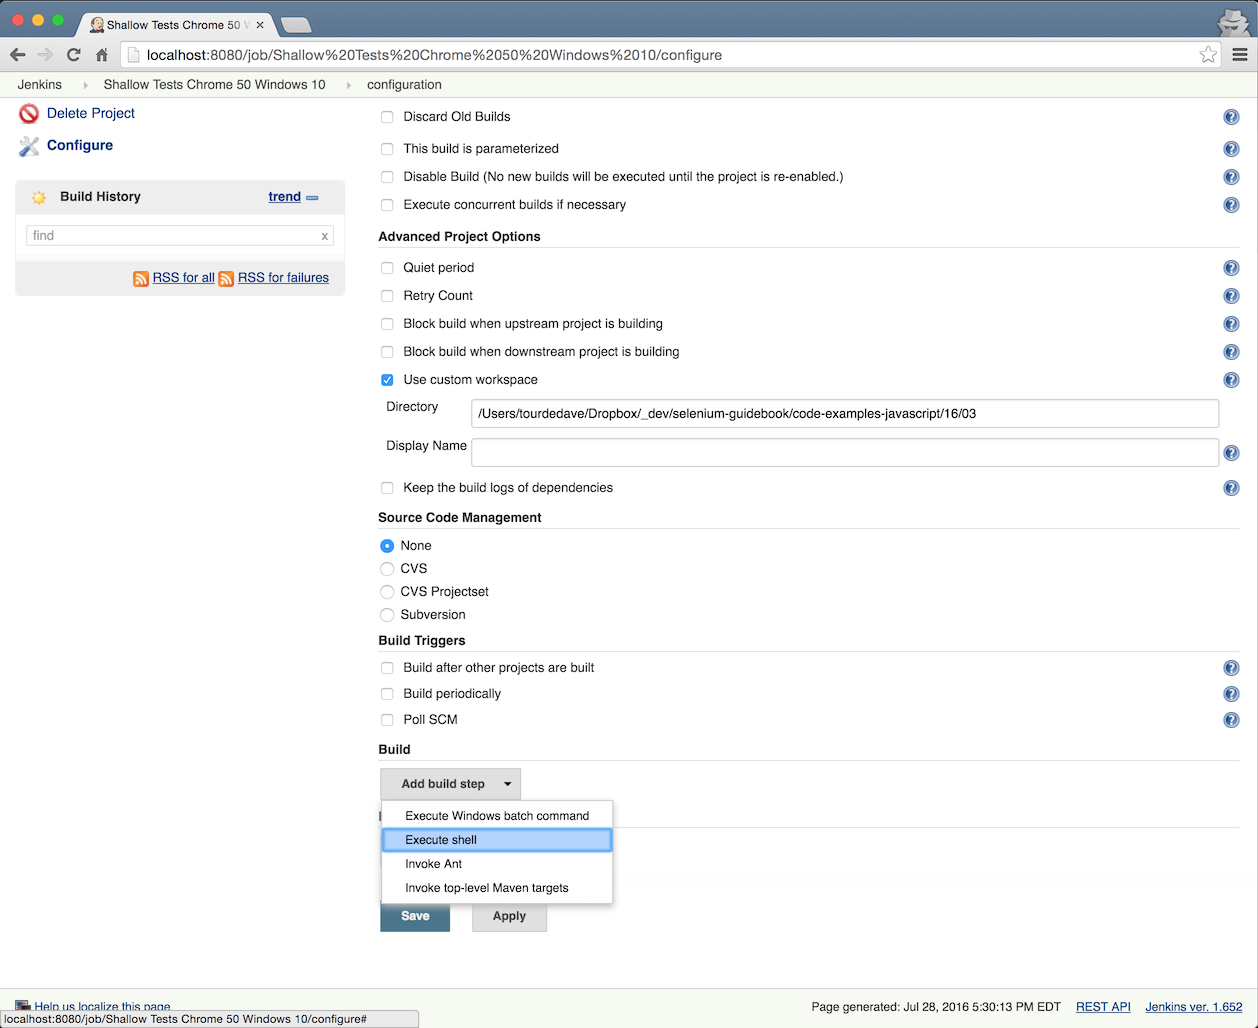
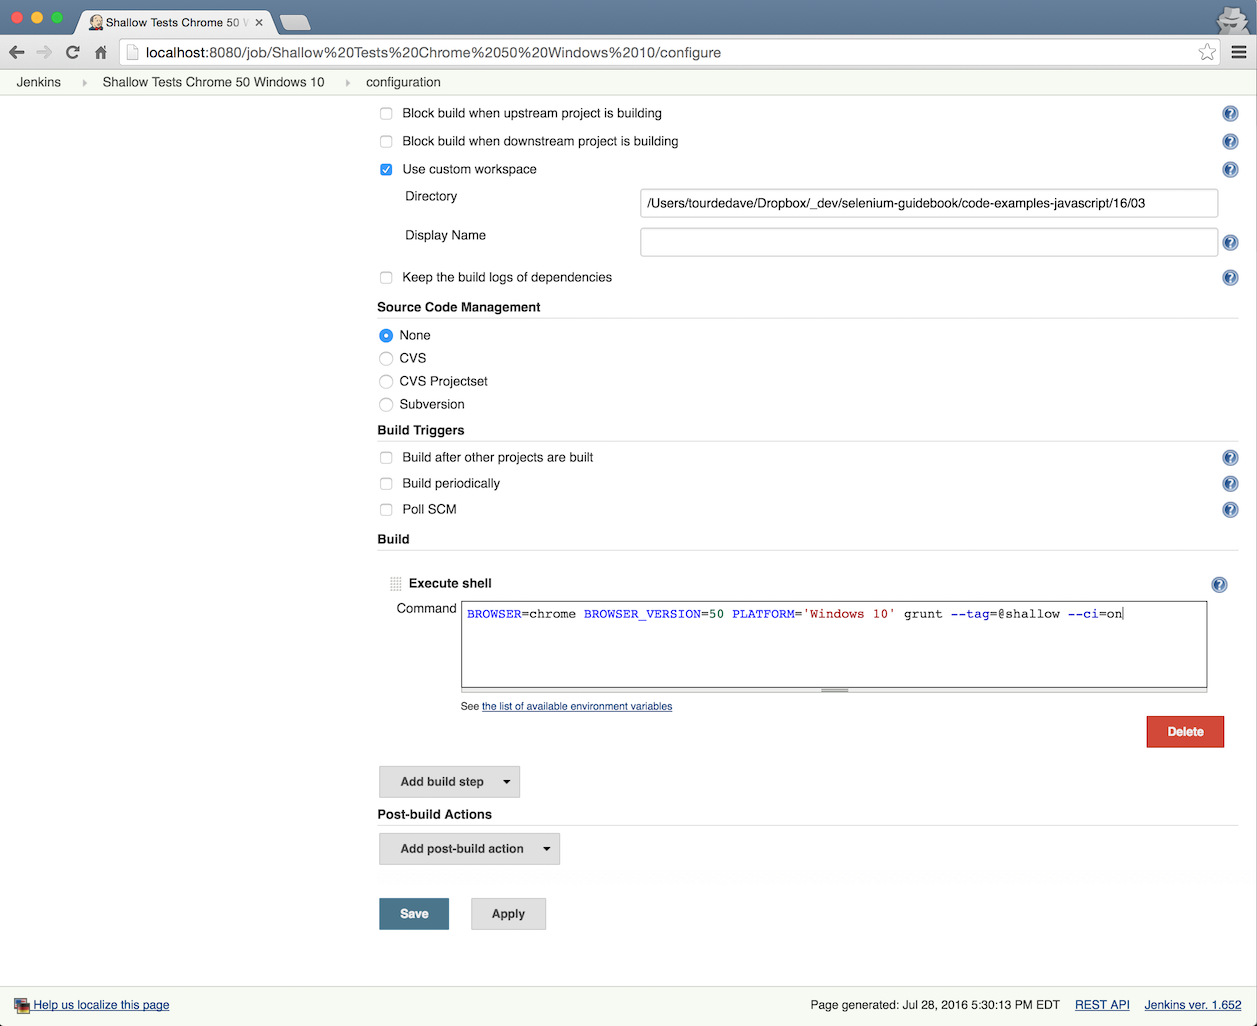
Re-ordered 2 screenshots that were out of order. Also added some clarying copy to the test result review

diff --git a/content/chapters/16.md b/content/chapters/16.md
@@ -79,10 +79,10 @@ __NOTE: Ideally, your test code would live in a version control system and you w
 ![Jenkins Job Configuration Build Step](jenkins-job-config-build-step.png)
 
 ```text
-BROWSER=chrome BROWSER_VERSION=50 PLATFORM="Windows 10" grunt --tag=@shallow --ci=on
+BROWSER=chrome BROWSER_VERSION=50 PLATFORM='Windows 10' grunt --tag=@shallow --ci=on
 ```
 
-We haven't written a Grunt task for `--ci=on` yet. So let's hop over to `Gruntfile.js` and do that before we proceed.
+We haven't written a Grunt task for `--ci=on` yet (listed in the command execution string above). It's responsible for outputting our test results in XML so Jenkins can consume them appropriately. Let's hop over to `Gruntfile.js` and do that now.
 
 ```javascript
 // filename: Gruntfile.js
@@ -147,7 +147,7 @@ Let's add a new test method to `LoginTest.js` that will fail every time we run i
 ```javascript
 // filename: test/LoginTest.js
 // ...
-  test.it('forced failured @shallow', function() {
+  test.it('forced failure @shallow', function() {
     login.with('tomsmith', 'bad password');
     login.successMessagePresent().then(function(elementDisplayed) {
       assert.equal(elementDisplayed, true, "Success message displayed");
@@ -187,11 +187,11 @@ When the test completes, it will be marked as failed.
 
 ![Jenkins Job Screen With Failure](jenkins-job-latest-test-result.png)
 
-When we click on `Latest Test Result` we can see the test that failed (e.g., `Login.forced failure @shallow`).
+When we click on `Latest Test Result` we can see the test that failed (e.g., `Login.forced failure @shallow`). The other failure listed (e.g., `,"after each" hook for "forced failure @shallow"`) is from the teardown of our test. It contains the Sauce Labs job URL.
 
 ![Jenkins Job Test Result](jenkins-job-latest-test-report.png)
 
-And if we click on the failed test, we can see the failure message along with a URL to the job in Sauce Labs.
+If we click on the failed test we can see the stack trace from the test failure. And if we click on the failure from the teardown we can see the URL to the job in Sauce Labs.
 
 ![Jenkins Job Test Result Individual](jenkins-job-test-report-sauce-url.png)
 
